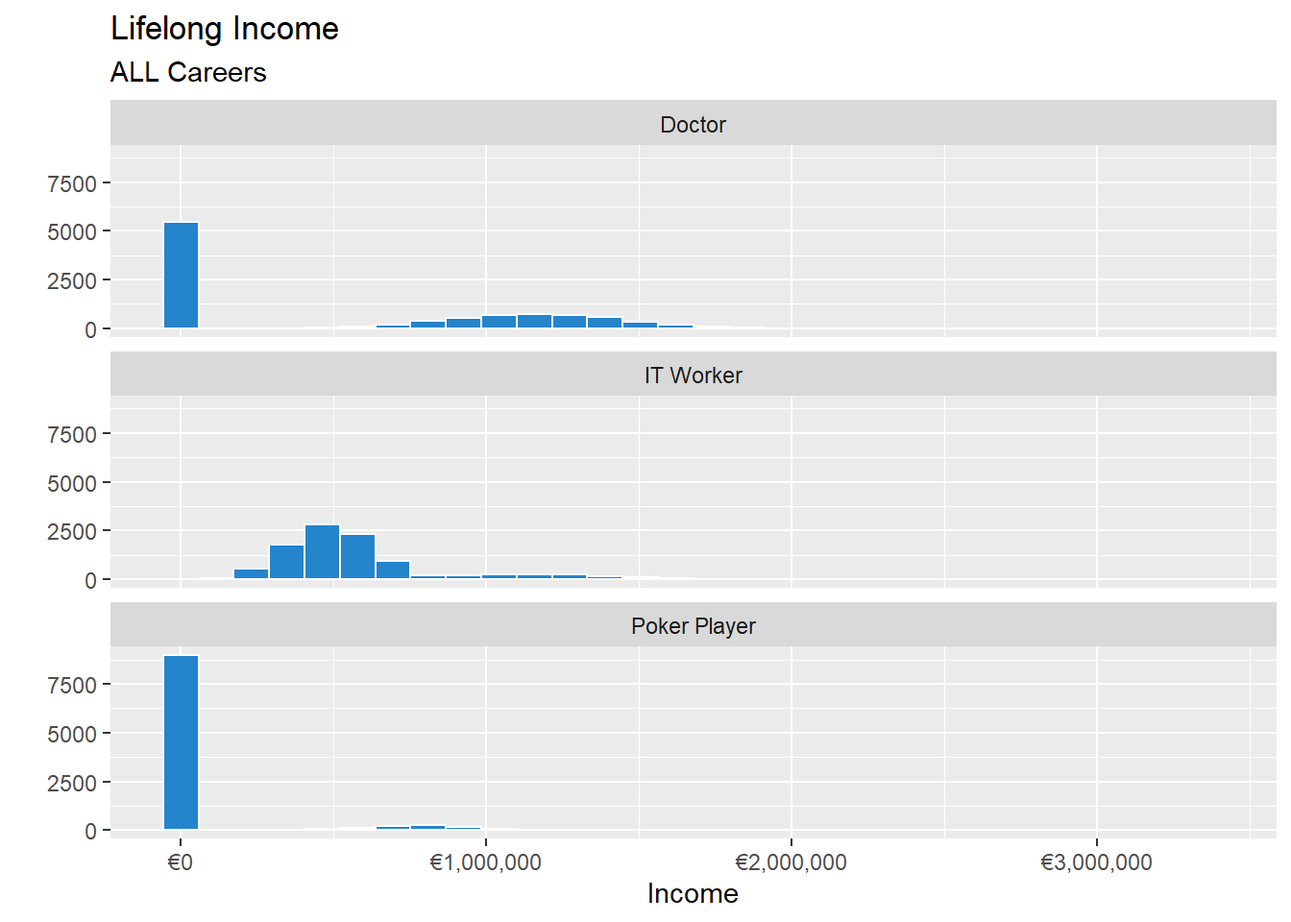
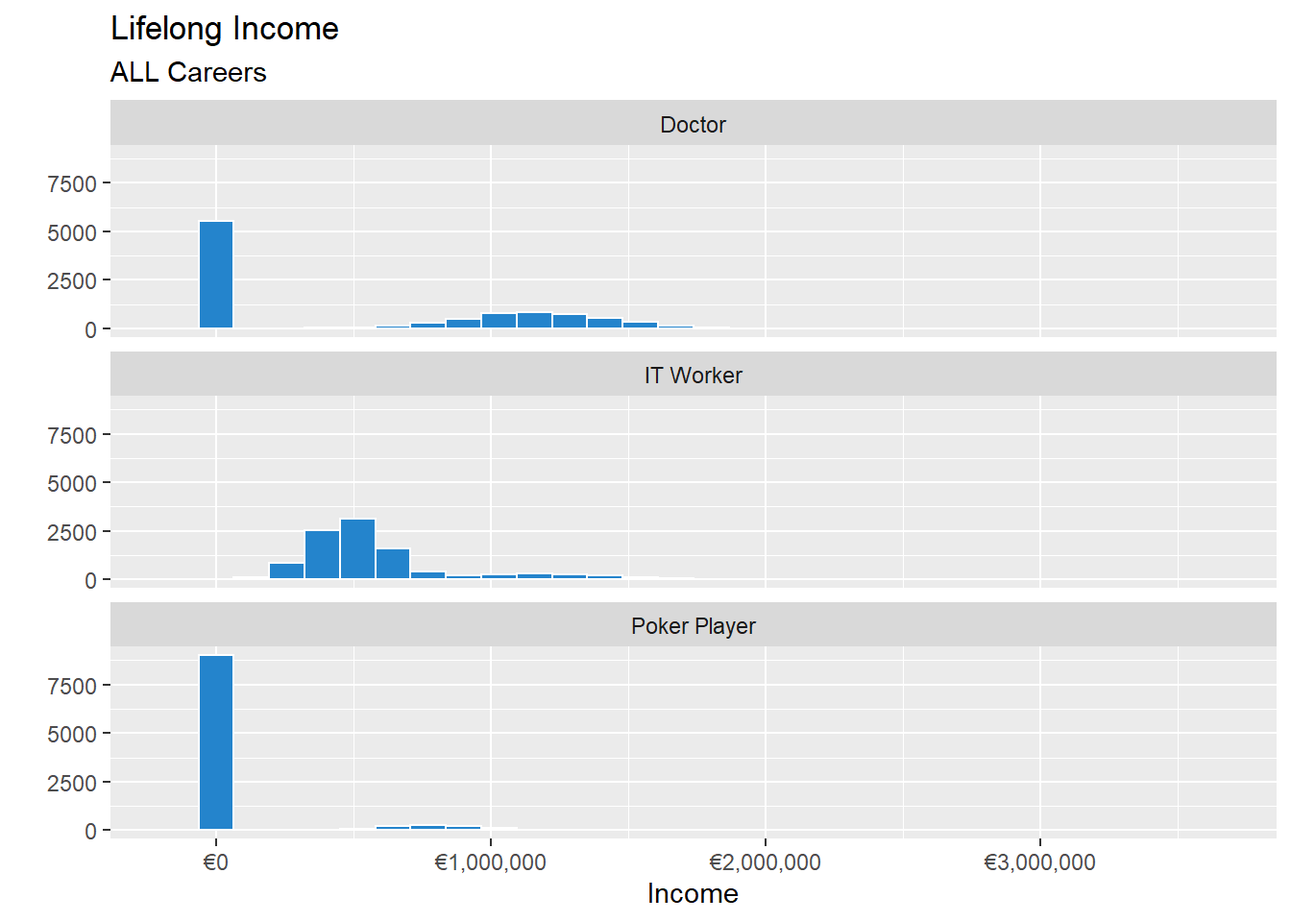
Updated the post

diff --git a/content/post/2021-05-08-decision-making-under-uncertainty/index.en.html b/content/post/2021-05-08-decision-making-under-uncertainty/index.en.html
@@ -1,7 +1,8 @@
 ---
 title: Decision making under uncertainty
+subtitle: Choosing between three careers, Doctor, IT, and Poker Player
 author: Vlad Aluas
-date: '2021-05-08'
+date: '2021-04-08'
 slug: decision-making-under-uncertainty
 categories: ["Opinion"]
 tags: ["decision making", "uncertainty", "chance"]
@@ -12,7 +13,7 @@ thumbnail: /images/chance-logo.png
 
 
 <blockquote>
-<p>We sail within a vast sphere, ever drifting in uncertainty, driven from end to end.</p>
+<p>“We sail within a vast sphere, ever drifting in uncertainty, driven from end to end.”</p>
 <footer>
 — Blaise Pascal
 </footer>
@@ -67,7 +68,7 @@ thumbnail: /images/chance-logo.png
 <li>Number of cars owned</li>
 <li>Amount of beer drunk weekly</li>
 </ol>
-<p>I would go for education level since it is highly unlikely someone has spent 50 years in education. And even if it is so, the impact to 10,000 will be small. The same goes for amount of beer drunk weekly. If there is someone who drinks thousands of beer weekly you might be in trouble, but not as much as they are. I think you would be safe with that bet.</p>
+<p>I would go for education level since it is highly unlikely someone has spent 50 years in education. And even if it is so, the impact to 10,000 will be small. The same goes for amount of beer drunk weekly. If there is someone who drinks thousands of beers weekly you might be in trouble, but not as much as they are. I think you would be safe with that bet.</p>
 <p>But what about the amount of cars? Well, here it can get a bit tricky. Most people have one or two cars. But what happens if in the crowd is the Sultan of Brunei with a car collection of 7000 cars? Considering the low age of the crowd, it is possible that he owns more cars that the whole crowd put together. This would not be a problem if you can include him in the sample however a sample of 100 people out of 10,000 give you a chance of 1% to include him in it. This means that 99 times out of 100 your sample will underestimate the average number of cars owned by the crowd.</p>
 <p>This is why it is important to try and figure out what kind of distribution has the population to which you are trying to make a decision and adjust your decision making accordingly. In the following section I will describe a problem which would be interesting to solve, what career would be best if I were to choose again, and see how we can take advantage of these distributions.</p>
 </div>
@@ -93,7 +94,7 @@ thumbnail: /images/chance-logo.png
 <p>The salary information will be from the Romanian job market since I am based in Romania.</p>
 <div id="coding-examples" class="section level2">
 <h2>Coding examples</h2>
-<p>Since we are analysing data we will need a tool that will allow us to do so. I will use <em>R</em> since it is a versatile tool that will allow us to create distributions and visualise then quite easily. The code can be completely ignored if you do not want to reproduce or analyse it, you can just focus on the graphs and the results. If you want to learn more about <em>R</em> I would recommend <a href="https://r4ds.had.co.nz/">R for Data Science</a>, a brilliant book that is the perfect starting place.</p>
+<p>Since we are analysing data we will need a tool that will allow us to do so. I will use <em>R</em> since it is a versatile tool that will allow us to create distributions and visualise them quite easily. The code can be completely ignored if you do not want to reproduce or analyse it, you can just focus on the graphs and the results. If you want to learn more about <em>R</em> I would recommend <a href="https://r4ds.had.co.nz/">R for Data Science</a>, a brilliant book that is the perfect starting place.</p>
 <p>Let’s start coding. At first I would like to set up the variables that I will use in this article. Since we will use these values multiple times in the article, I will store them here and if we need to adjust them at a later date, I can just change the values once, in here.</p>
 <p>The first values we want to encode are the average salaries. At the moment you can ignore the values, they will make sense when we come to the analysis itself.</p>
 <pre class="r"><code># Medical Salaries
@@ -102,7 +103,7 @@ dr_sal_mean &lt;- 21100
 # IT Salaries
 it_sal_med_high &lt;- 225000 # Median Salary for Managers and Directors in IT
 it_sal_med_low  &lt;- 92809  # Median Salary for the everyone else working in IT </code></pre>
-<p>The salaries are encoded in here not later when we are analysing the careers themselves because it is a good practice to keep the variables in one place and the same goes for custom function. I will add some in here as well. This functions just store some lines of code that we will need to repeat over and over again and it is good coding practice to store such lines of code in one function so you can avoid having too many lines of code. Also, if we want to change something at a later date, we just need to adjust everything in one place.</p>
+<p>The salaries are encoded in here not later when I am analysing the careers themselves because it is a good practice to keep the variables in one place and the same goes for custom function. I will add some in here as well. This functions just store some lines of code that we will need to repeat over and over again and it is good coding practice to store such lines of code in one function so I can avoid having too many lines of code. Also, if I want to change something at a later date, I just need to adjust everything in one place.</p>
 <pre class="r"><code># Graphical function to avoid writing the same lines over and over
 histogram &lt;- function(.df, .var = Income){
   
@@ -112,7 +113,7 @@ histogram &lt;- function(.df, .var = Income){
     labs(x = &quot;Income&quot;, y = &quot;&quot;) +
     scale_x_continuous(labels = label_dollar(prefix = &quot;&quot;, suffix = &quot;RON&quot;))
 }</code></pre>
-<pre class="r"><code># Just a simple function to format the Romanian currency so I can used stored variables.
+<pre class="r"><code># Just a simple function to format the Romanian currency so I can use stored variables.
 ron_format &lt;- function(.x){
   require(scales)
   
@@ -153,14 +154,15 @@ tibble(Income = dr_sal_dist) %&gt;% # transforms the list in a table for the gra
 <li>Determine how many salaries does a doctor receive in a lifetime</li>
 <li>Convert everything to €</li>
 </ol>
-<p>The Romanian government imposes taxes on the on the employee as follows:</p>
+<p>The Romanian government imposes taxes on the employee as follows:</p>
 <ul>
 <li>Social Security: 25%</li>
 <li>Health Insurance: 10%</li>
 <li>Income tax on the remainder of 65% of the Gross salary: 10%</li>
 </ul>
 <p>This will be translated as follows:</p>
-<p><span class="math display">\[ m_{salary(RON)} = (21,100 - \frac{25}{100} \times 21,100 - \frac{10}{100} \times 21,100) \times \frac{90}{100} = 13,715 \times \frac{90}{100} = 12,343.50\]</span> This give me the net salary received by a doctor in Romania. All there is now to do is calculate how many such salaries one doctor receives. In Romania medical school lasts for 7 years and afterwards one needs to spend 3 to 5 years in residency. Since residency is paid I will include it in my analysis and I will consider that a doctor starts working when they start their residency. Since most people finish high-school at 19 and med school is 7 years, I will consider that one starts working at 26.</p>
+<p><span class="math display">\[ m_{salary(RON)} = (21,100 - \frac{25}{100} \times 21,100 - \frac{10}{100} \times 21,100) \times \frac{90}{100} = 13,715 \times \frac{90}{100} = 12,343.50\]</span></p>
+<p>This gives me the net salary received by a doctor in Romania. All there is now to do is calculate how many such salaries one doctor receives. In Romania medical school lasts for 7 years and afterwards one needs to spend 3 to 5 years in residency. Since residency is paid I will include it in my analysis and I will consider that a doctor starts working when they start their residency. Since most people finish high-school at 19 and med school is 7 years, I will consider that one starts working at 26.</p>
 <p>Since I do not plan to work more than I need to, I plan on retiring with the first chance I get. In Romania the retirement age is 65 so I will plan for that. From 26 to 65 there are 39 years of work, multiply that by 12 months I can expect to work for around 468 months.</p>
 <p>And for the conversion to €, that is quite easy. According to the National Bank of Romania, the conversion rate is 1 RON for 0.20 € so all I need to do is divide the number by 5. So, let’s code everything:</p>
 <pre class="r"><code># First, I will need to extract the taxes so I can compare just the NET salaries
@@ -172,17 +174,18 @@ dr_sal_final &lt;- dr_sal_final * 468
 # And finally, the conversion to €
 dr_sal_final &lt;- dr_sal_final / 5  </code></pre>
 <p>One more thing I would like to add, I would like to know which is the potential success rate of me becoming a doctor? This is a bit tricky to find out for certain but I will try. Before that I think it is a good idea to write down my thought process and then I can crunch the numbers.</p>
-<p>Since applying for medical school requires quite a brutal exam, I will assume that no one applies for it without being serious about it and without having the discipline and study to pass the exam. This information is relevant because it allows me to safely assume that the a student once admitted is highly likely to become a doctor.</p>
-<p>This is acquired by two mechanisms. The first mechanism is the fact that the extra preparation for the exam allows potential students see the effort required and if they are not willing to put in the effort they can change their mind before the admission exam. The second mechanism keeping student from quitting is the <a href="https://en.wikipedia.org/wiki/Sunk_cost">sunk cost fallacy.</a> For this reason, I will only take into account the admittance rate and that can be taken from the university’s website.</p>
+<p>Since applying for medical school requires quite a brutal exam, I will assume that no one applies for it without being serious about it and without having the discipline and study to pass the exam. This information is relevant because it allows me to safely assume that a student once admitted is highly likely to become a doctor.</p>
+<p>This is acquired by two mechanisms. The first mechanism is the fact that the extra preparation for the exam allows potential students see the effort required and if they are not willing to put in the effort they can change their mind before the admission exam. The second mechanism keeping students from quitting is the <a href="https://en.wikipedia.org/wiki/Sunk_cost">sunk cost fallacy.</a> For this reason, I will only take into account the admittance rate and that can be taken from the university’s website.</p>
 <p>In this case I will use the <a href="http://www.umfcluj.ro/component/content/article/8-ro/595-rezultate-admitere-2020_?Itemid=216">2020 admissions</a> for the University of Medicine and Pharmacy in Cluj-Napoca. The admittance rate is simple, how many people were admitted over how many applied. The admitted numbers were as follows:</p>
-<ol style="list-style-type: decimal">
-<li>318 - General Medicine Budget</li>
-<li>60 - General Medicine Tax</li>
-<li>81 - Dental Medicine Budget</li>
-<li>17 - Dental Medicine Tax</li>
-<li>591 - Rejected</li>
-</ol>
-<p><span class="math display">\[admit\_rate = \frac{318 + 60 + 80 + 17}{318 + 60 + 80 + 17 + 591} = 0.4465291 \]</span> There, my chances are 45%. Now I will code this chance by simply generating a list of 10,000 elements which are either 0 or 1 and 4500 of them are 1. Then I will simply multiply the two lists. If a salary is multiplied by a 0 it will signify that I did not make it as a doctor.</p>
+<ul>
+<li>General Medicine (Scholarship) - 318 Admitted</li>
+<li>General Medicine (No Scholarship) - 60 Admitted</li>
+<li>Dental Medicine (Scholarship) - 81 Admitted</li>
+<li>Dental Medicine (No Scholarship) - 17 Admitted</li>
+<li>Rejected - 591</li>
+</ul>
+<p><span class="math display">\[admit\_rate = \frac{318 + 60 + 80 + 17}{318 + 60 + 80 + 17 + 591} = 0.4465291 \]</span></p>
+<p>There, my chances are 45%. Now I will code this chance by simply generating a list of 10,000 elements which are either 0 or 1 and 4500 of them are 1. Then I will simply multiply the two lists. If a salary is multiplied by a 0 it will signify that I did not make it as a doctor.</p>
 <pre class="r"><code># The list that will show me if I have made it or not
 admittance_rate &lt;- rbinom(n = 10000, size = 1, prob = 0.45)
 
@@ -191,7 +194,7 @@ dr_sal_final &lt;- dr_sal_final * admittance_rate
 
 # Just to be sure, I would like to see the rate
 print(sum(admittance_rate) / 10000)</code></pre>
-<pre><code>#&gt; [1] 0.4518</code></pre>
+<pre><code>#&gt; [1] 0.4472</code></pre>
 <p>I will take a look at the numbers in the analysis part, this is just the preparation of the data. Now, let’s see if we can estimate how much does an IT professional earn.</p>
 </div>
 <div id="the-it-crowd" class="section level2">
@@ -208,6 +211,7 @@ print(sum(admittance_rate) / 10000)</code></pre>
 <p>If I am to look at the average income across all levels and the fact that managers and directors earn significantly more than everyone else, we can approximate that around 15% of the IT professionals are managers and directors. In short, I can rephrase this as the following statement: Assuming that my skill level for the IT industry is average, by seer luck I will end up in a management position 15% of the time, if I were to live 10,000 lives.</p>
 <pre class="r"><code># Distribution of IT salaries for software engineers
 it_sal_low &lt;- rnorm(8500, it_sal_med_low, 25000)
+
 # Distribution of IT salaries for IT managers and Directors
 it_sal_high &lt;- rnorm(1500, it_sal_med_high, 50000)
 
@@ -216,7 +220,7 @@ it_sal_dist &lt;- c(it_sal_low, it_sal_high)
 
 # The average of my salary distribution should be similar to that on the website
 mean(it_sal_dist)</code></pre>
-<pre><code>#&gt; [1] 112367.6</code></pre>
+<pre><code>#&gt; [1] 111765.1</code></pre>
 <p>From what I can see the distribution I have created has the same average salary as the population on the website so I can safely assume that the distribution I have created more or less resembles the population I want to recreate. The distribution looks like this:</p>
 <pre class="r"><code>tibble(Income = it_sal_dist) %&gt;% 
   histogram() +
@@ -232,7 +236,7 @@ mean(it_sal_dist)</code></pre>
 <li>Social Security: 25%</li>
 <li>Health Insurance: 10%</li>
 </ul>
-<p>Secondly, I need to convert everything into €. As before, we will use the conversion rate from above.</p>
+<p>Secondly, I need to convert everything into €. As before, I will use the conversion rate from above.</p>
 <pre class="r"><code># Net salary
 it_sal_dist_net &lt;- it_sal_dist - (it_sal_dist * 0.25) - (it_sal_dist * 0.1)
 
@@ -247,7 +251,7 @@ it_sal_dist_net_eur &lt;- it_sal_dist_net / 5</code></pre>
 </div>
 <div id="poker-star" class="section level2">
 <h2>Poker Star</h2>
-<p>This was one of the most exhausting researches I’ve done so far. There are some huge problems problems I encountered while trying to gather data for this career path. This is to be expected as I imagine that casinos are not willing to let everyone what are the real chances of winning by revealing the numbers. This was to be expected, however I had hoped that I will be able to find some kind of information regarding this but no luck in this.</p>
+<p>This was one of the most exhausting researches I’ve done so far. There are some huge problems I encountered while trying to gather data for this career path. This is to be expected as I imagine that casinos are not willing to let everyone what are the real chances of winning by revealing the numbers. This was to be expected, however I had hoped that I will be able to find some kind of information regarding this but no luck with it.</p>
 <p>So I decided to change my tune and see if an online poker career would be better suited? Going online has one additional advantage although that is of no moment, it requires less funds with which to start.</p>
 <p>With that being said, in the next section I will like to answer the following questions:</p>
 <ul>
@@ -274,7 +278,7 @@ it_sal_dist_net_eur &lt;- it_sal_dist_net / 5</code></pre>
 <p><span class="math display">\[ Avg\_NL25  = (3 \times \frac{25}{100}) \times \frac{100000}{100} = \$750\]</span></p>
 <p><span class="math display">\[ Avg\_NL50  = (2 \times \frac{50}{100}) \times \frac{100000}{100} = \$1000 \]</span></p>
 <p><span class="math display">\[ Avg\_NL100 = (2 \times 1) \times \frac{100000}{100} = \$2000 \]</span></p>
-<p>These are the estimates for most professional players, however elite players have a different bracket. I am curious to see how much an elite player make and see how we can distribute the earnings in the population.</p>
+<p>These are the estimates for most professional players, however elite players have a different bracket. I am curious to see how much an elite player makes and see how we can distribute the earnings in the population.</p>
 <p><span class="math display">\[ Elite\_NL2   = (30 \times \frac{2}{100}) \times \frac{100000}{100} = \$600\]</span></p>
 <p><span class="math display">\[ Elite\_NL5   = (10 \times \frac{5}{100}) \times \frac{100000}{100} = \$900\]</span></p>
 <p><span class="math display">\[ Elite\_NL10  = (12 \times \frac{10}{100}) \times \frac{100000}{100} = \$1200\]</span></p>
@@ -301,7 +305,7 @@ poker_players &lt;- c(avg_player, elt_player)</code></pre>
 </ol>
 <p>So, for how long should I expect to be active in this domain? This is a bit tricky because it is not a career recognised by the Romanian government so there is no pension plan for it. This means that I am not forced to retire at 65, I can do it earlier or later, however since I want to compare apples with apples I will account for working until 65 as for the previous two careers.</p>
 <p>And all I need to know now is when can I start working? Since there are no study requirements or skill assessment to start this, you just need to log in an play, I would be able to start any time. If I want maximum income and experience gain, I will start at 19, as soon as I finish high school. This would mean:</p>
-<p><span class="math display">\[ months\_played = (65 - 19) * 12 = 552 \]</span>
+<p><span class="math display">\[ months\_played = (65 - 19) \times 12 = 552 \]</span>
 And now for the last part, the probability to become a professional poker player. As mentioned above, the probability is 10% according to the blog.</p>
 <pre class="r"><code># Poker Players LIFELONG earnings
 poker_players &lt;- poker_players * 552
@@ -314,8 +318,8 @@ poker_players_final &lt;- poker_players * success_prob
 
 # Just to be sure, I would like to see the rate
 print(sum(success_prob) / 10000)</code></pre>
-<pre><code>#&gt; [1] 0.1034</code></pre>
-<p>Looks good, 10.34% is exactly what it is to be expected.</p>
+<pre><code>#&gt; [1] 0.0993</code></pre>
+<p>Looks good, 9.93% is exactly what it is to be expected.</p>
 <p>All I need right now is to analyse the data and see which career path is better for me.</p>
 </div>
 </div>
@@ -352,10 +356,11 @@ There seems to be quite a difference between the three.</p>
   filter(Income != 0, Career == &quot;Poker Player&quot;) %&gt;% 
   histogram() +
   labs(title = &quot;Lifelong Income&quot;,
-       subtitle = &quot;Poker Players&quot;)</code></pre>
+       subtitle = &quot;Poker Players&quot;) +
+  scale_x_continuous(labels = label_dollar(prefix = &quot;€&quot;))</code></pre>
 <p><img src="{{< blogdown/postref >}}index.en_files/figure-html/poker_players_final_graph-1.png" width="100%" /></p>
-<p>It is quite clear from the data that this job is quite well paid, most of the ones that made it as a professional player earn around €750K over their professional careers, so that makes them 50% better paid than most IT professionals, and the whales have it better than the doctors, over €3M. The problem with this is even more obvious then it is for the doctors, out of 10,000 only about 10% make it up to here. In my IT sample I have 1546 people who earn over €750K which is more than all the poker players that made it as a professional.</p>
-<p>Now, before I dive too deep in these type of discussions I must remember my basic premise, which is the career path that give me the highest income across 10,000 lives and is the least exposed to luck in getting there. With that said I would like to check the numbers.</p>
+<p>It is quite clear from the data that this job is quite well paid, most of the ones that made it as a professional player earn around €750K over their professional careers, so that makes them 50% better paid than most IT professionals, and the whales have it better than the doctors, over €3M. The problem with this is even more obvious then it is for the doctors, out of 10,000 only about 10% make it up to here. In my IT sample I have 1567 people who earn over €750K which is more than all the poker players that made it as a professional.</p>
+<p>Now, before I dive too deep in this type of discussion I must remember my initial premise, which is the career path that gives me the highest income across 10,000 lives and is the least exposed to luck in getting there. With that said I would like to check the numbers.</p>
 <pre class="r"><code># The data as it is now is not useful, I will rearrange it a bit to be better summarised
 # This will help later on as well so I will store it in a separate data frame
 df_wide &lt;- df %&gt;% 
@@ -393,7 +398,7 @@ Poker Player
 Min. : 0
 </td>
 <td style="text-align:left;">
-Min. : -41248
+Min. : 0
 </td>
 <td style="text-align:left;">
 Min. : 0
@@ -406,7 +411,7 @@ Min. : 0
 1st Qu.: 0
 </td>
 <td style="text-align:left;">
-1st Qu.: 410506
+1st Qu.: 409194
 </td>
 <td style="text-align:left;">
 1st Qu.: 0
@@ -419,7 +424,7 @@ Min. : 0
 Median : 0
 </td>
 <td style="text-align:left;">
-Median : 512994
+Median : 507647
 </td>
 <td style="text-align:left;">
 Median : 0
@@ -429,23 +434,23 @@ Median : 0
 <td style="text-align:left;">
 </td>
 <td style="text-align:left;">
-Mean : 520140
+Mean : 520582
 </td>
 <td style="text-align:left;">
-Mean : 584312
+Mean : 581187
 </td>
 <td style="text-align:left;">
-Mean : 95070
+Mean : 94284
 </td>
 </tr>
 <tr>
 <td style="text-align:left;">
 </td>
 <td style="text-align:left;">
-3rd Qu.:1113542
+3rd Qu.:1124075
 </td>
 <td style="text-align:left;">
-3rd Qu.: 633720
+3rd Qu.: 632457
 </td>
 <td style="text-align:left;">
 3rd Qu.: 0
@@ -455,28 +460,28 @@ Mean : 95070
 <td style="text-align:left;">
 </td>
 <td style="text-align:left;">
-Max. :2177017
+Max. :2126793
 </td>
 <td style="text-align:left;">
-Max. :1990760
+Max. :2036033
 </td>
 <td style="text-align:left;">
-Max. :3315351
+Max. :3645871
 </td>
 </tr>
 </tbody>
 </table>
-<p>So, this is plain as day, with a lifelong average of €584,312 the IT crew wins the contest. This is because although the individual salaries for the doctors tend to be higher that the ones for IT, quite a few people did not make it as a doctor and their earnings from this field, €0 in this case, move the average down to €520,140.</p>
-<p>It is interesting that the Poker players have the highest earners with €3,315,351 however the average income of €95,070.29 is not very appealing to me.</p>
-<p>The last thing I would like to test is that indeed there is a significant difference between these careers. It does not matter as much in this context since based on these data I would choose to follow a career in IT. Since it is the most accessible my consequences in choosing this career are not high. However, if the situation would have been less clear cut I might want to make sure that it matters if I choose one career over another.</p>
-<p>This can be done with an <a href="https://en.wikipedia.org/wiki/Analysis_of_variance#:~:text=Analysis%20of%20variance%20(ANOVA)%20is,by%20the%20statistician%20Ronald%20Fisher.">Analysis Of Variance (ANOVA)</a>. I’m not going to go into details about this, I will just mention that ANOVA is a way of comparing three or more groups and checking if the differences between them are significant or not. This is not exactly true but the subject is outside the scope of this article and this explanation is a useful way of remembering it.</p>
+<p>So, this is plain as day, with a lifelong average of €581,178 the IT crew wins the contest. This is because although the individual salaries for the doctors tend to be higher that the ones for IT, quite a few people did not make it as a doctor and their earnings from this field, €0 in this case, move the average down to €520,582.</p>
+<p>It is interesting that the Poker players have the highest earners with €3,645,871 however the average income of €94,284.36 is not very appealing to me.</p>
+<p>The last thing I would like to test is that indeed there is a significant difference between these careers. It does not matter as much in this context since based on these data I would choose to follow a career in IT. Since it is the most accessible, my consequences in choosing this career are not high. However, if the situation would have been less clear cut I might want to make sure that it matters if I choose one career over another.</p>
+<p>This can be done with an <a href="https://en.wikipedia.org/wiki/Analysis_of_variance#:~:text=Analysis%20of%20variance%20(ANOVA)%20is,by%20the%20statistician%20Ronald%20Fisher.">Analysis Of Variance (ANOVA)</a>. I’m not going to go into details about this, I will just mention that ANOVA is a way of comparing three or more groups and checking if the differences between them are significant or not.</p>
 <pre class="r"><code>anova_results &lt;- aov(`IT Worker` ~ `Doctor` + `Poker Player`, data = df_wide)
 
-summary(anova_results)</code></pre>
+summary(anova_results) </code></pre>
 <pre><code>#&gt;                  Df    Sum Sq   Mean Sq F value Pr(&gt;F)    
-#&gt; Doctor            1 2.094e+11 2.094e+11   2.486  0.115    
-#&gt; `Poker Player`    1 8.281e+12 8.281e+12  98.349 &lt;2e-16 ***
-#&gt; Residuals      9997 8.418e+14 8.420e+10                   
+#&gt; Doctor            1 3.797e+10 3.797e+10   0.459  0.498    
+#&gt; `Poker Player`    1 1.226e+13 1.226e+13 148.153 &lt;2e-16 ***
+#&gt; Residuals      9997 8.274e+14 8.276e+10                   
 #&gt; ---
 #&gt; Signif. codes:  0 &#39;***&#39; 0.001 &#39;**&#39; 0.01 &#39;*&#39; 0.05 &#39;.&#39; 0.1 &#39; &#39; 1</code></pre>
 <p>So, this looks interesting. From what this shows me, there is a very significant difference between IT and poker player, which is to be expected. I can tell this by the Pr(&gt;F) value, the smaller it is the less chance that the two groups are the same distribution.</p>
@@ -484,7 +489,7 @@ summary(anova_results)</code></pre>
 </div>
 <div id="conclusion" class="section level1">
 <h1>Conclusion</h1>
-<p>As I hope I have showed here, decisions in the real world are not as easy to make as they are in a classroom where things tend to be clean cut. This can get very frustrating and that is not always a bad thing. Frustration is a good motivator to help one persist in ones pursuit of understanding and resolving a problem. With patience and perseverance most things can be overcome.</p>
-<p>What I hope I have showed here is how you can make decisions with imperfect data by focusing on a few key variables for which you can control. Once you have this is easy to create a simulations of random outcomes within this outcome so you can analyse the data. As mentioned earlier in this article, the preferred approach is to simulate multiple scenarios to account for blind luck. You can win the lottery and be better off that any doctor or IT worker or Poker player but you cannot count on that.</p>
-<p>Let me know what you think of this article and if you agree with it.</p>
+<p>As I hope I have showed here, decisions in the real world are not as easy to make as they are in a classroom where things tend to be clean cut. This can get very frustrating and that is not always a bad thing. Frustration is a good motivator to help one persist in one’s pursuit of understanding and resolving a problem. With patience and perseverance most things can be overcome.</p>
+<p>What I hope I have showed here is how you can make decisions with imperfect data by focusing on a few key variables which you can control. Once you have this, it is easy to create a simulation of random outcomes and within this outcome so you can analyse the data. As mentioned earlier in this article, the preferred approach is to simulate multiple scenarios to account for blind luck. You can win the lottery and be better off that any doctor or IT worker or Poker player but you cannot count on that.</p>
+<p>Let me know what you think of this article and what would be your approach.</p>
 </div>

diff --git a/content/post/2021-05-08-visuals-in-data-analysis/index.en.html b/content/post/2021-05-08-visuals-in-data-analysis/index.en.html
@@ -26,7 +26,10 @@ thumbnail: /images/Graph-Logo.png
 <p>Additionally, <strong>R</strong> comes with a very powerful integrated development environment (IDE) called <strong>RStudio</strong> that can allow a data science team to work, collaborate and create reports, all in one environment.</p>
 <p>Another great advantage of <strong>R</strong> over other programming languages is the wide range of tools they offer in tidying the data. In an <strong>R</strong> framework, <em>tidying</em> data refers to the process in which the data is transformed in such a way that the final dataset has each variable on a separate column and each row is a new observation. This approach makes it easier to extract information out of data and it makes it easier to reuse code or an analysis on a new dataset.</p>
 <blockquote>
-<p><em>“Like families, tidy datasets are all alike but every messy dataset is messy in its own way. Tidy datasets provide a standardized way to link the structure of a dataset (its physical layout) with its semantics (its meaning)”</em> (Hadley Wickham, Chief Scientist RStudio)</p>
+<p><em>“Like families, tidy datasets are all alike but every messy dataset is messy in its own way. Tidy datasets provide a standardized way to link the structure of a dataset (its physical layout) with its semantics (its meaning)”</em></p>
+<footer>
+—Hadley Wickham, Chief Scientist RStudio
+</footer>
 </blockquote>
 <p>The last advantage I would like to mention is the transparency and re usability of using using code over a point and click approach (<em>e.g.</em> using Microsoft Excel or a Business Intelligence software). When you have a report or an analysis written using code it can be run by anyone, they just need to run the code in the required order. If you have multiple datasets that require the same approach, transformation, summary, etc, you can do that with just one run of the code, as opposed to a point and click approach where most of the times you need to process the files one after the other. And the best thing about writing code for data analysis, it can be easily shared between team members and reused in multiple projects.</p>
 </div>
